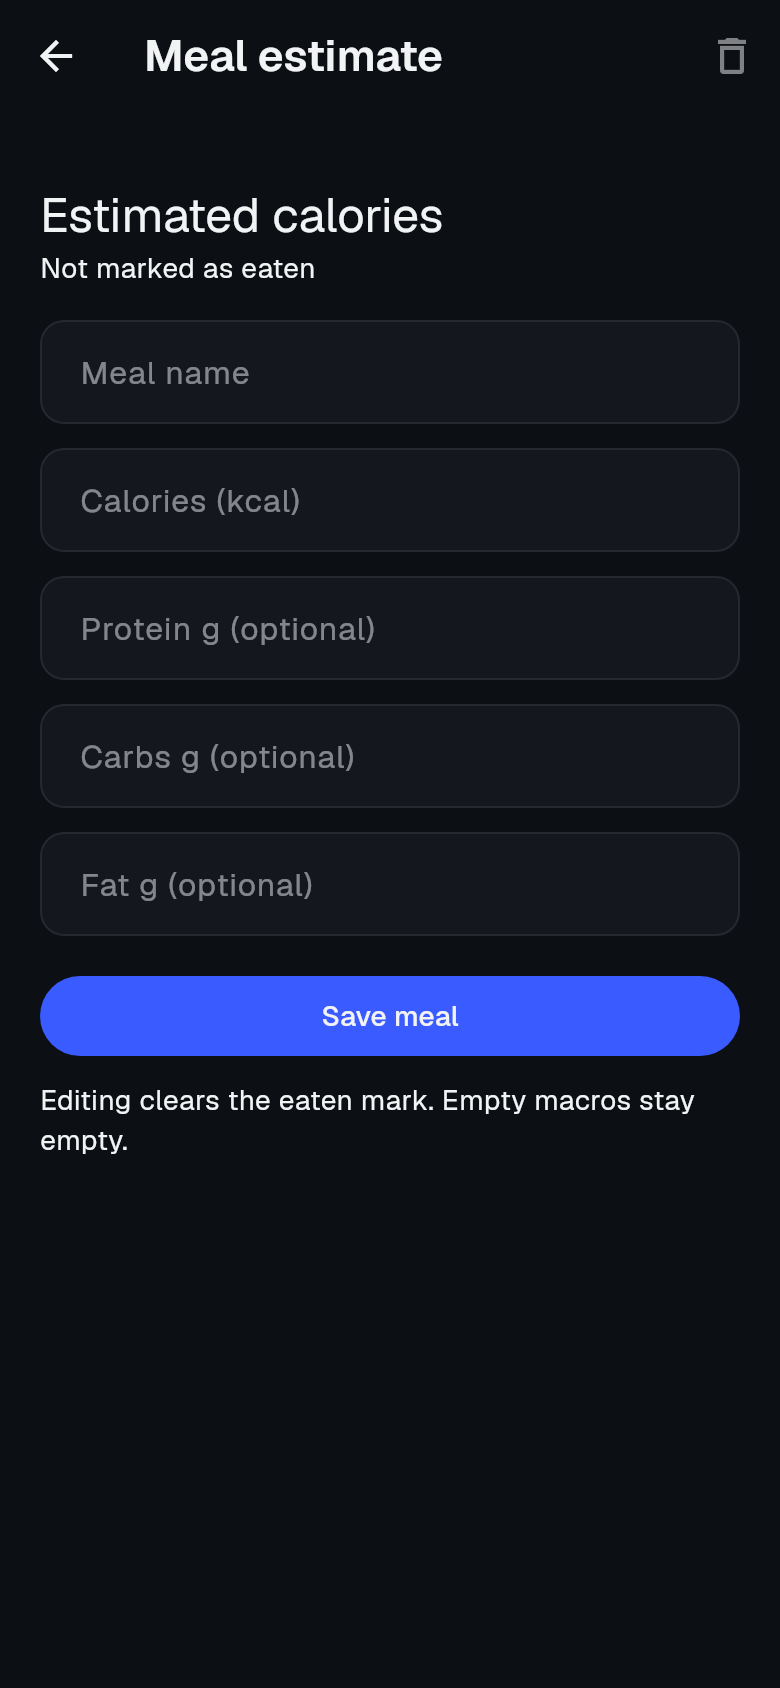
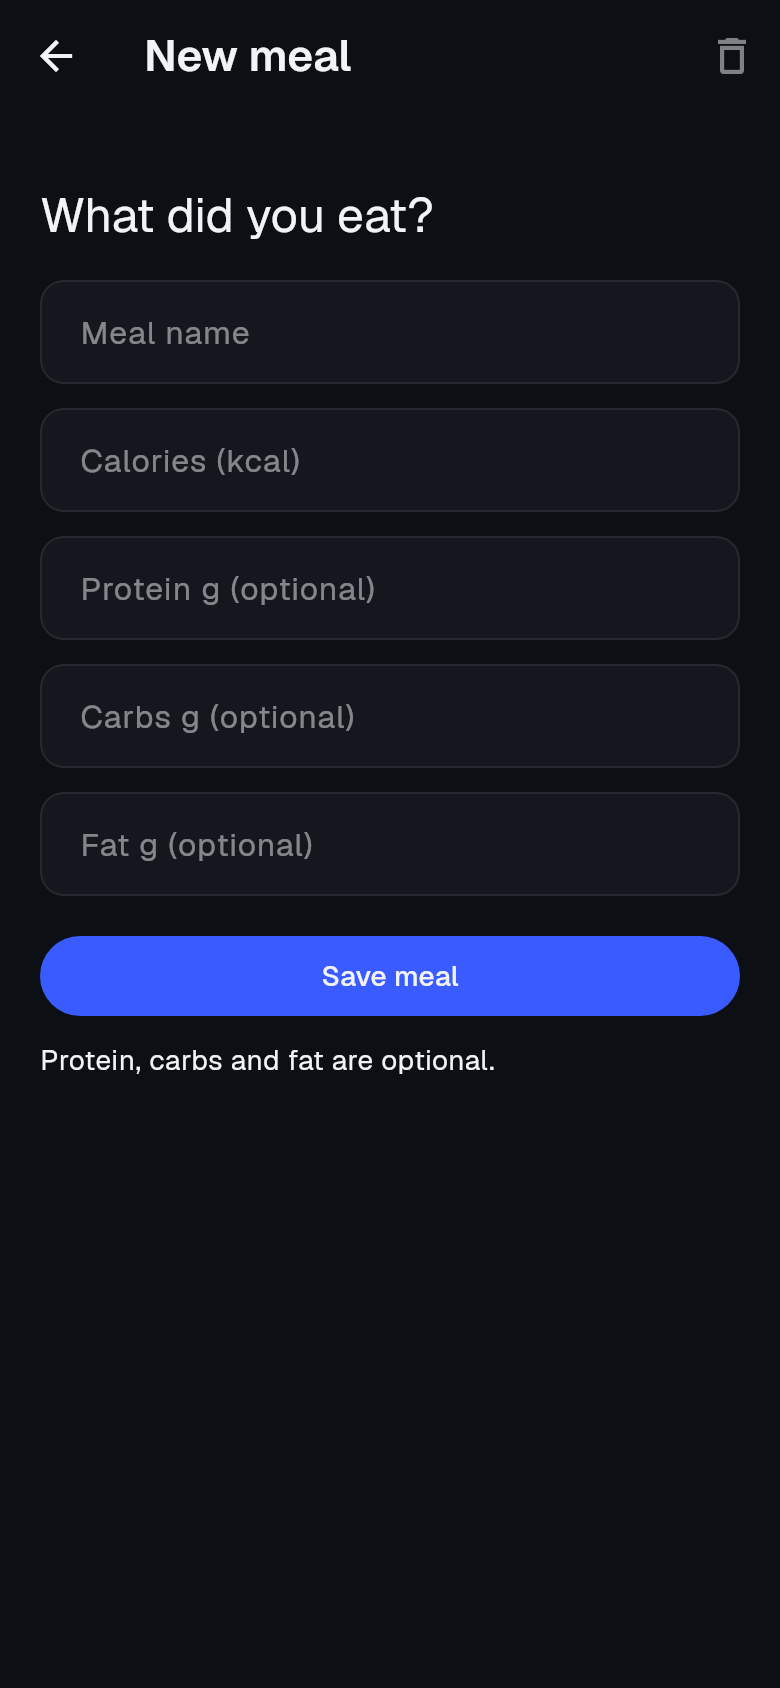
Record the manual entry framing in the Tier1 handover because its screenshot changed

diff --git a/docs/UI_REVIEW_AND_HANDOVER_2026-11-14.md b/docs/UI_REVIEW_AND_HANDOVER_2026-11-14.md
@@ -50,7 +50,7 @@ the open question is an amber block. Still weak there, in order: (a) DONE in `c8
 (d) the totals at the top are five form fields, not a summary (kcal large, macros with their colour dots) with
 an Edit button. (d) is DONE in `bff13cb` (owner said yes): a summary card (name, large kcal, labelled macro dots, status) with `Edit totals` revealing the form; manual entry with no estimate still opens on the form. Tests that type into the totals tap `Edit totals` first.
 
-**Dialogs (rendered as `10`, `11`; the totals form as `09`):** DONE in `35ca117`. Both correction dialogs use the app's colours (`dialogTheme` in `app_theme.dart`, was Material's lavender tint), short text, labels "Portion (g)" and "Search foods", and two actions in a row; "Use original" / "Use predicted food" moved into the dialog body because three actions stacked vertically. Run `dart format` on `lib/features/tier1 test/tier1 tool/ui` only: formatting all of `lib` rewrites nine unrelated files.
+**Dialogs (rendered as `10`, `11`; the totals form as `09`):** DONE in `35ca117`. Both correction dialogs use the app's colours (`dialogTheme` in `app_theme.dart`, was Material's lavender tint), short text, labels "Portion (g)" and "Search foods", and two actions in a row; "Use original" / "Use predicted food" moved into the dialog body because three actions stacked vertically. Manual entry with nothing in it reads "New meal / What did you eat?" since `998aa92` (it used to say "Meal estimate / Estimated calories / Not marked as eaten"). Run `dart format` on `lib/features/tier1 test/tier1 tool/ui` only: formatting all of `lib` rewrites nine unrelated files.
 
 **Defects, most visible first** (`lib/features/tier1/tier1_app.dart` unless noted):
 1. [App bar title] shows the literal `AppName` (`lib/core/constants/app_constants.dart:3`). Set it to `Calorix`.
